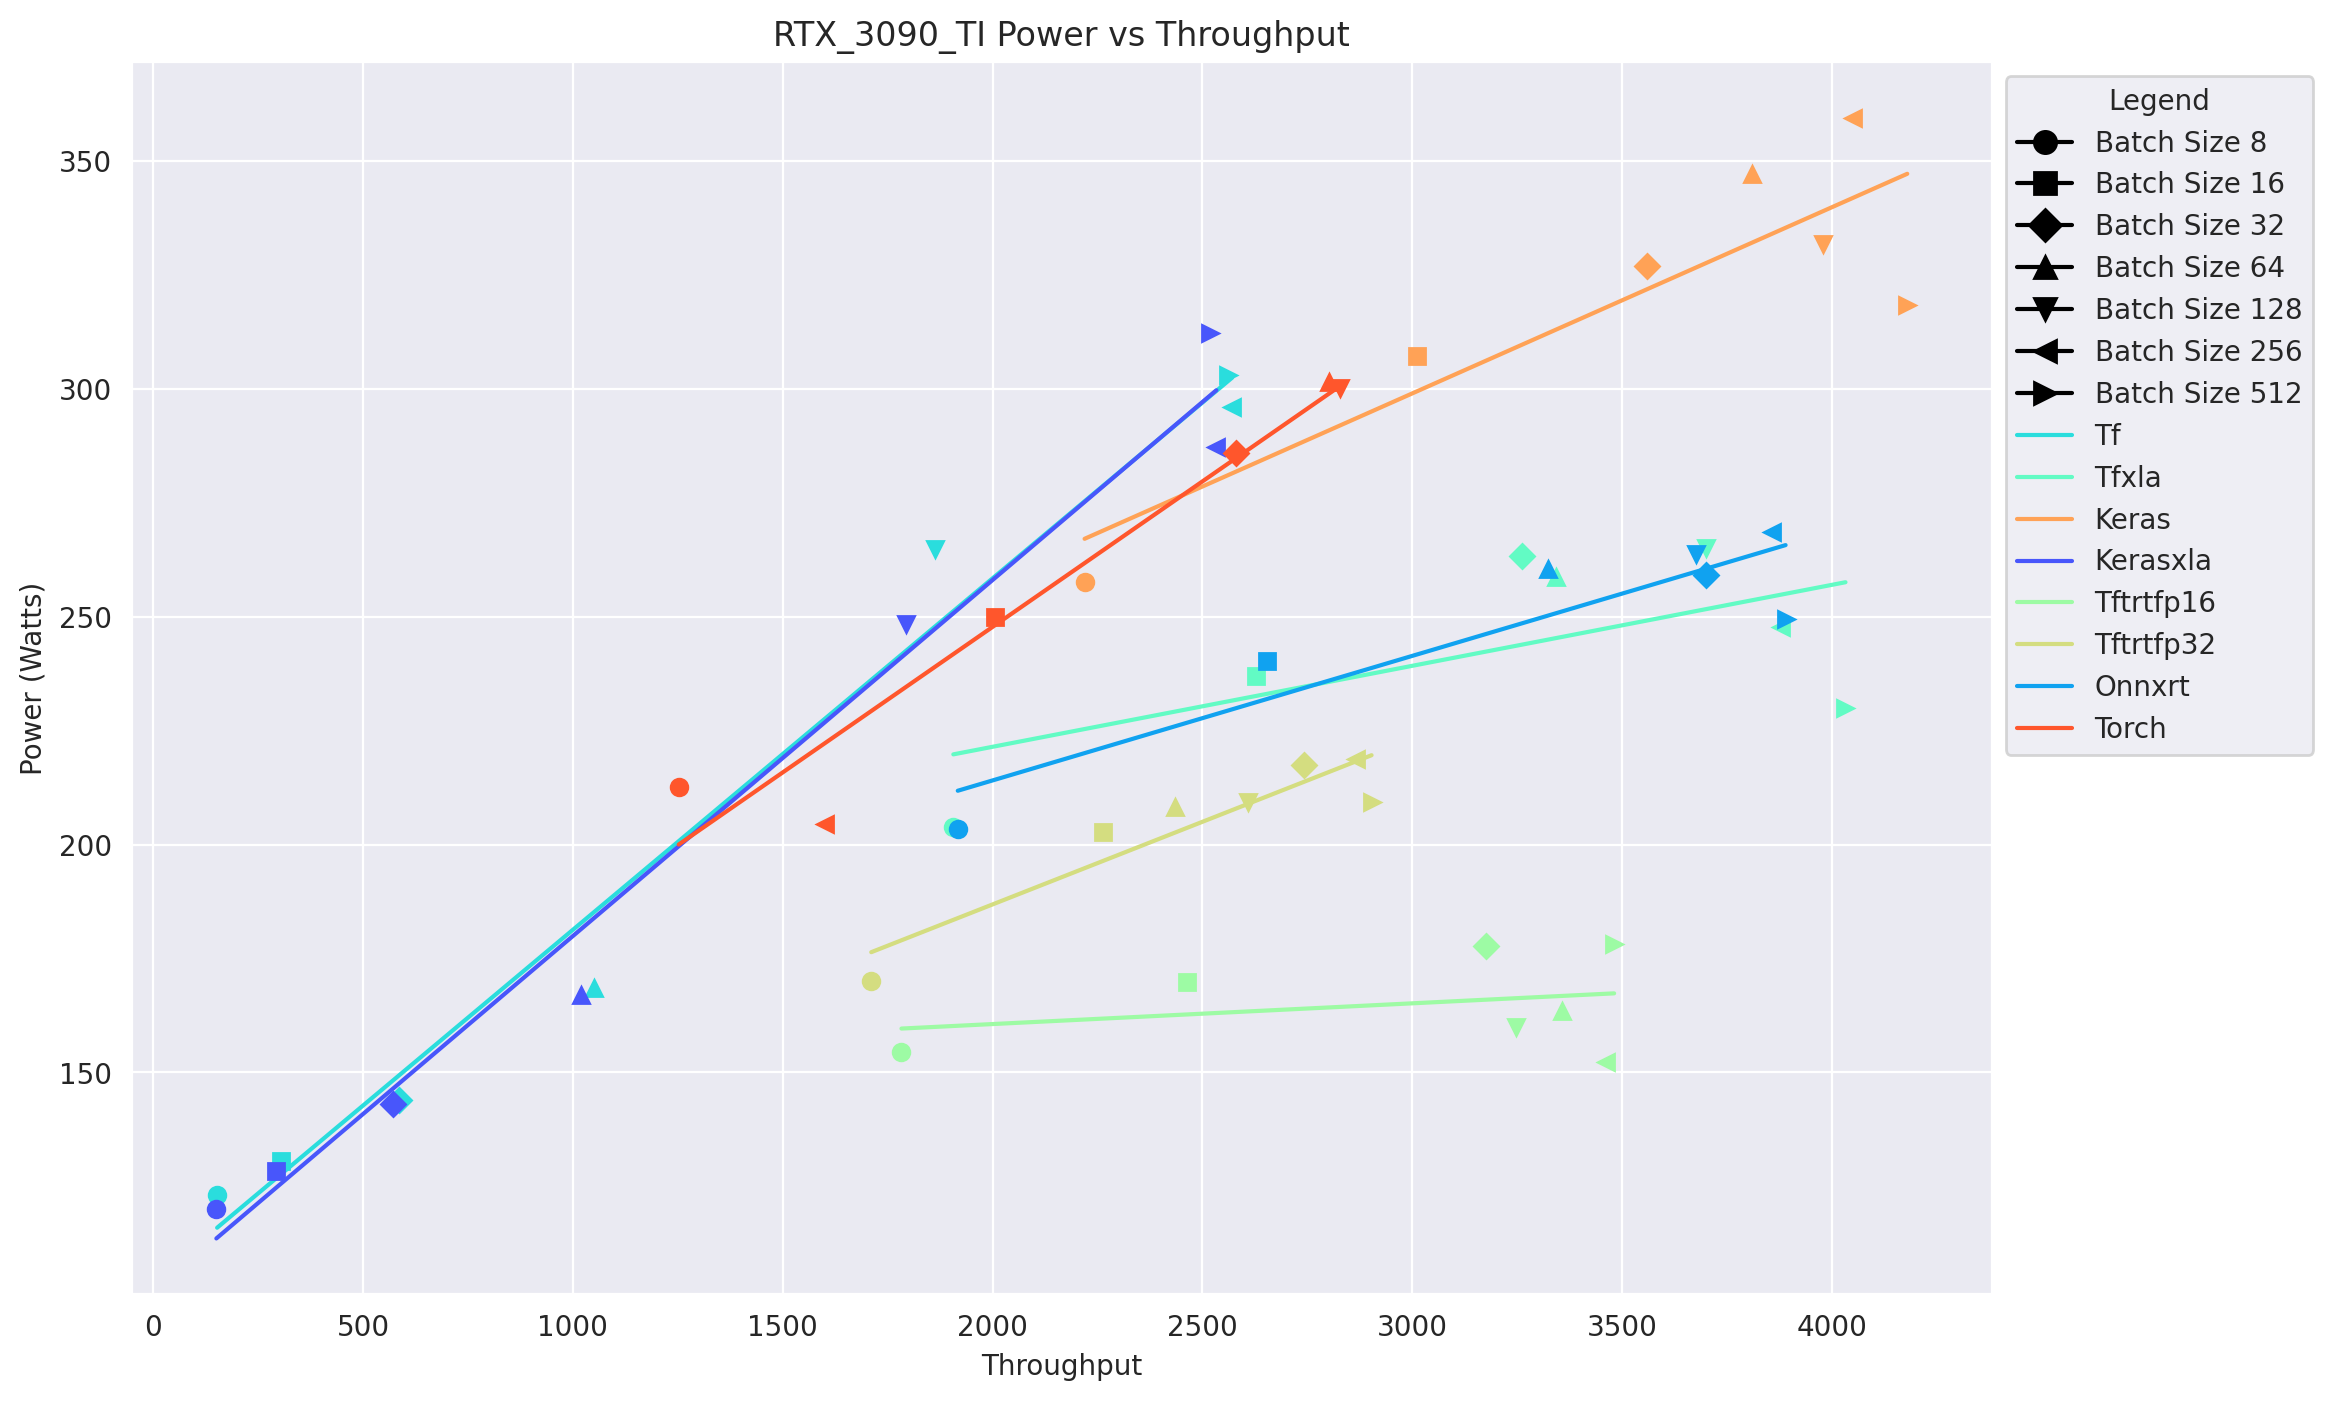
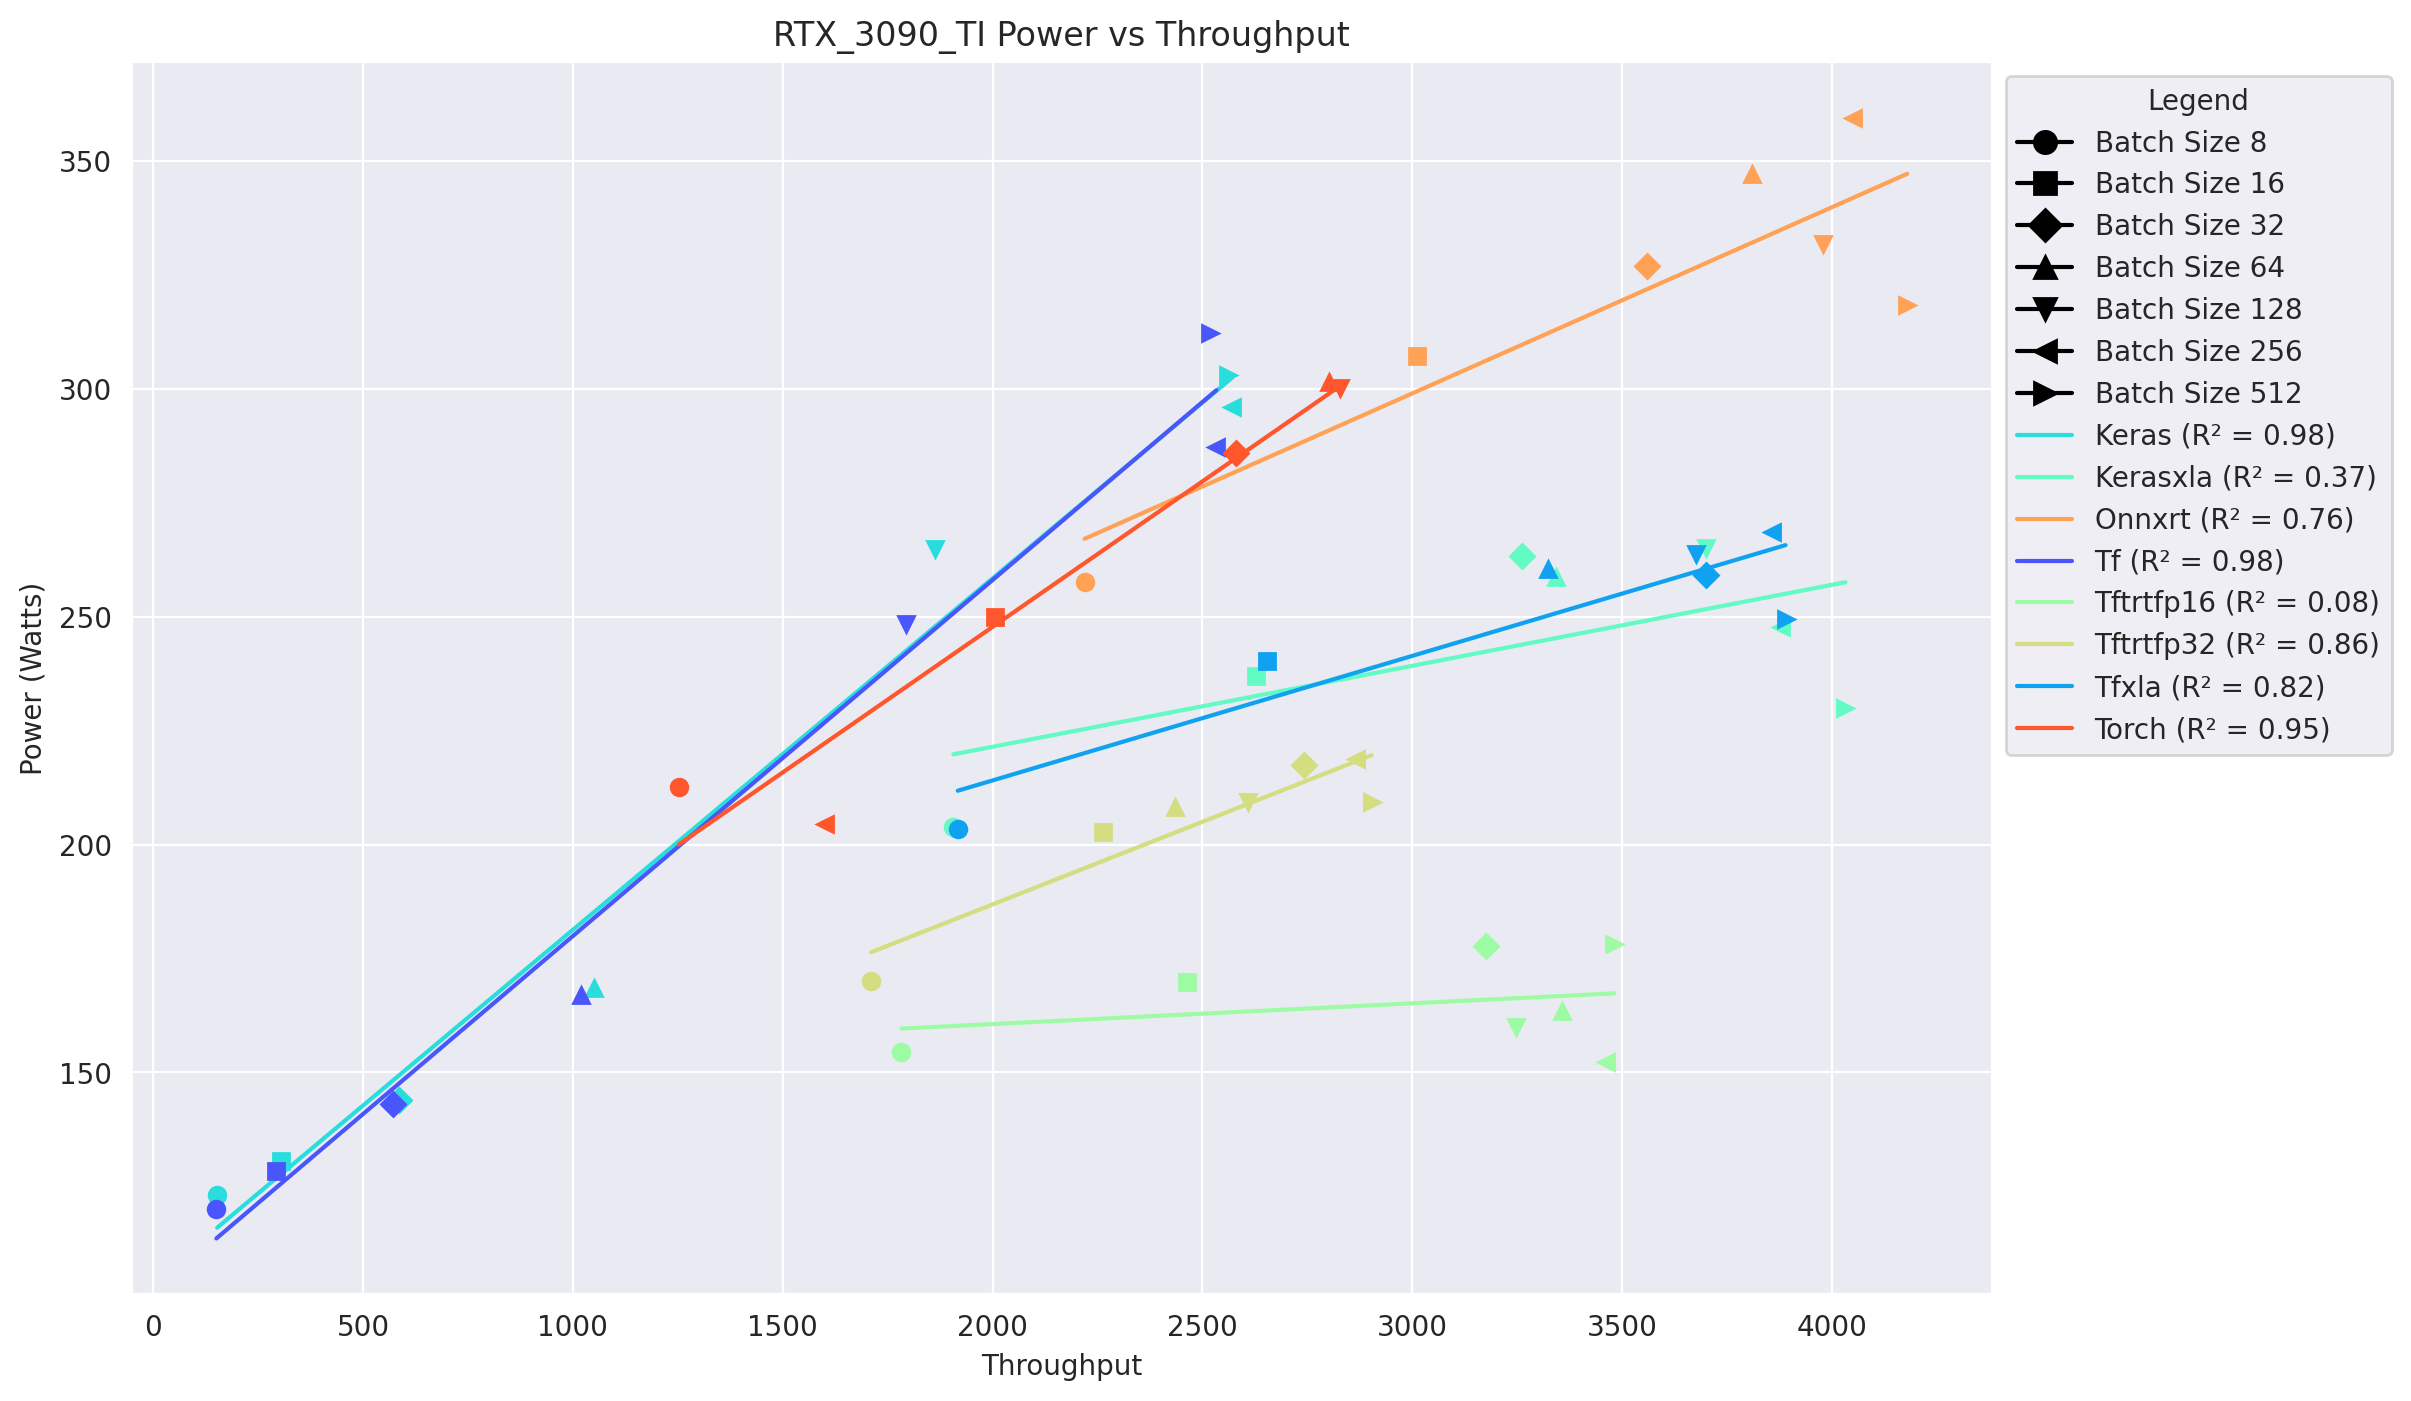
Updating the plots with R^2 vakyes

diff --git a/utility_scripts/utils.py b/utility_scripts/utils.py
@@ -1045,85 +1045,88 @@ def ema_power_vs_thrpt_plot(csv_path, save_dir):
         legend_handles_framework = []
         legend_labels_framework = []
         # Iterate over each framework for the current GPU
-        for i, (framework, df_framework) in enumerate(
-            df_gpu.groupby("framework")
-        ):
-            # Fit linear regression
-            model = LinearRegression()
-            model.fit(
-                df_framework["Throughput"].values.reshape(-1, 1),
-                df_framework["power_watts"].values,
-            )
-            y_pred = model.predict(
-                df_framework["Throughput"].values.reshape(-1, 1)
-            )
+        for i, framework in enumerate(order):
+            if framework in df_gpu["framework"].unique():
+                df_framework = df_gpu[df_gpu["framework"] == framework]
 
-            # Plot line plot with markers for batch sizes
-            for j, batch_size in enumerate(
-                sorted(df_framework["batch_size"].unique())
-            ):
-                x_batch = df_framework[
-                    df_framework["batch_size"] == batch_size
-                ]["Throughput"].values
-                y_batch = df_framework[
-                    df_framework["batch_size"] == batch_size
-                ]["power_watts"].values
+                # Fit linear regression
+                model = LinearRegression()
+                model.fit(
+                    df_framework["Throughput"].values.reshape(-1, 1),
+                    df_framework["power_watts"].values,
+                )
+                y_pred = model.predict(
+                    df_framework["Throughput"].values.reshape(-1, 1)
+                )
+                # Calculate R-squared value
+                r2 = model.score(
+                    df_framework["Throughput"].values.reshape(-1, 1),
+                    df_framework["power_watts"].values,
+                )
+
+                # Plot regression line
                 plt.plot(
-                    x_batch,
-                    y_batch,
-                    marker=marker_map[batch_size],
+                    df_framework["Throughput"],
+                    y_pred,
                     linestyle="-",
                     color=framework_colors[framework],
+                    label=f"{framework} (R² = {r2:.2f})",
                 )
-
-                # Add legend handles and labels for batch sizes
-                if (
-                    i == 0
-                ):  # Add batch size legend handles and labels for the first framework only
-                    legend_handles_batch_size.append(
-                        plt.Line2D(
-                            [0],
-                            [0],
-                            linestyle="-",
-                            color="black",
-                            marker=marker_map[batch_size],
-                            markersize=8,
-                        )
+                # Plot line plot with markers for batch sizes
+                for j, batch_size in enumerate(
+                    sorted(df_framework["batch_size"].unique())
+                ):
+                    x_batch = df_framework[
+                        df_framework["batch_size"] == batch_size
+                    ]["Throughput"].values
+                    y_batch = df_framework[
+                        df_framework["batch_size"] == batch_size
+                    ]["power_watts"].values
+                    plt.plot(
+                        x_batch,
+                        y_batch,
+                        marker=marker_map[batch_size],
+                        linestyle="-",
+                        color=framework_colors[framework],
                     )
-                    legend_labels_batch_size.append(f"Batch Size {batch_size}")
 
-            # Plot regression line
-            plt.plot(
-                df_framework["Throughput"],
-                y_pred,
-                linestyle="-",
-                color=framework_colors[framework],
-                label=f"{framework} (R^2 = {model.score(df_framework['Throughput'].values.reshape(-1, 1), df_framework['power_watts'].values):.2f})",
-            )
+                    # Add legend handles and labels for batch sizes
+                    if (
+                        i == 0
+                    ):  # Add batch size legend handles and labels for the first framework only
+                        legend_handles_batch_size.append(
+                            plt.Line2D(
+                                [0],
+                                [0],
+                                linestyle="-",
+                                color="black",
+                                marker=marker_map[batch_size],
+                                markersize=8,
+                            )
+                        )
+                        legend_labels_batch_size.append(
+                            f"Batch Size {batch_size}"
+                        )
 
-            # Add legend handles and labels for frameworks
-            # if (
-            #     j == 0
-            # ):  # Add framework legend handles and labels for the first batch size only
-            legend_handles_framework.append(
-                plt.Line2D(
-                    [0],
-                    [0],
-                    linestyle="solid",
-                    color=framework_colors[framework],
+                # Add legend handles and labels for frameworks
+                legend_handles_framework.append(
+                    plt.Line2D(
+                        [0],
+                        [0],
+                        linestyle="solid",
+                        color=framework_colors[framework],
+                    )
                 )
-            )
-            legend_labels_framework.append(f"{framework}")
+                legend_labels_framework.append(f"{framework} (R² = {r2:.2f})")
 
         # Set title and labels
         plt.title(f"{gpu} Power vs Throughput")
         plt.xlabel("Throughput")
         plt.ylabel("Power (Watts)")
-        plt.legend(loc="upper left")
 
         # Combine legend handles and labels
         all_handles = legend_handles_batch_size + legend_handles_framework
-        all_labels = legend_labels_batch_size + order
+        all_labels = legend_labels_batch_size + legend_labels_framework
 
         # Show legend
         plt.legend(
